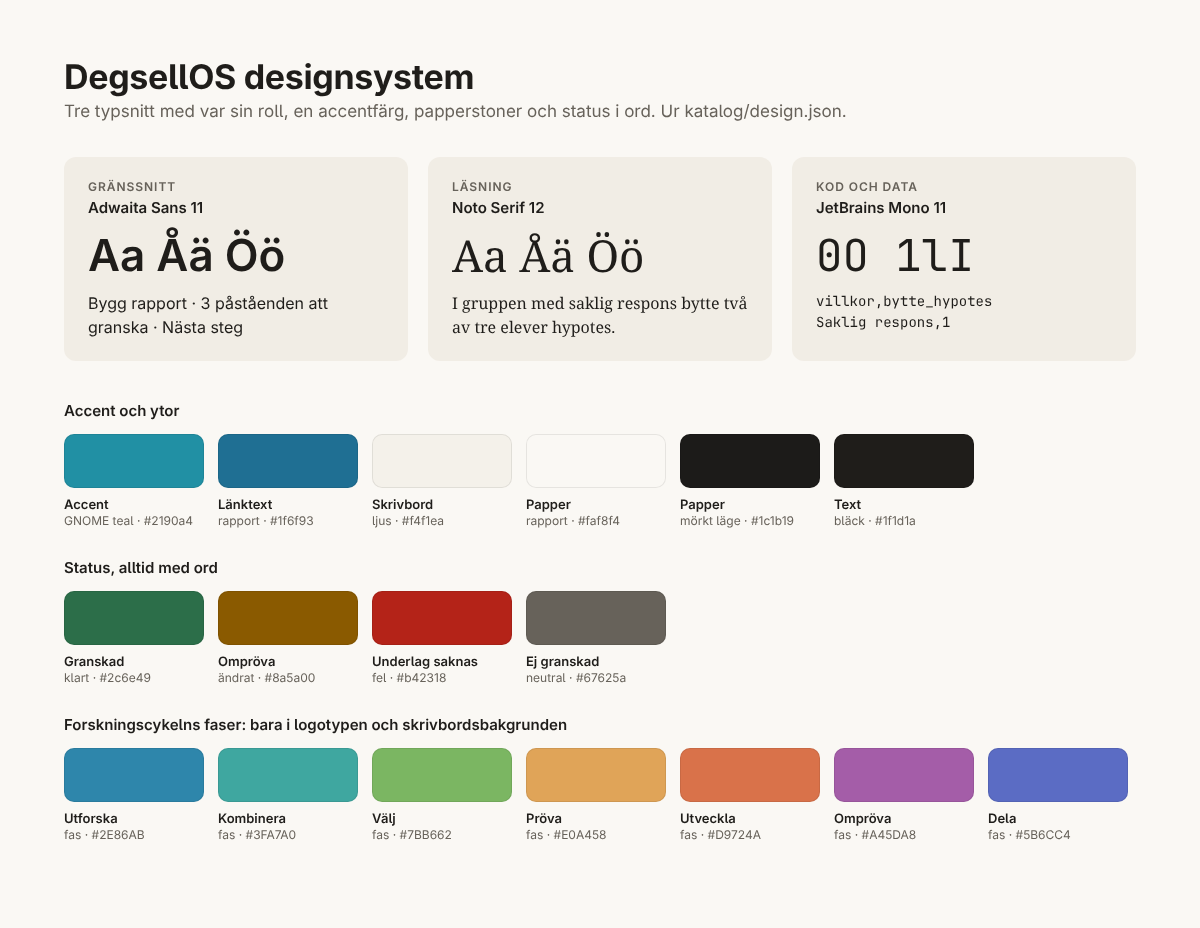
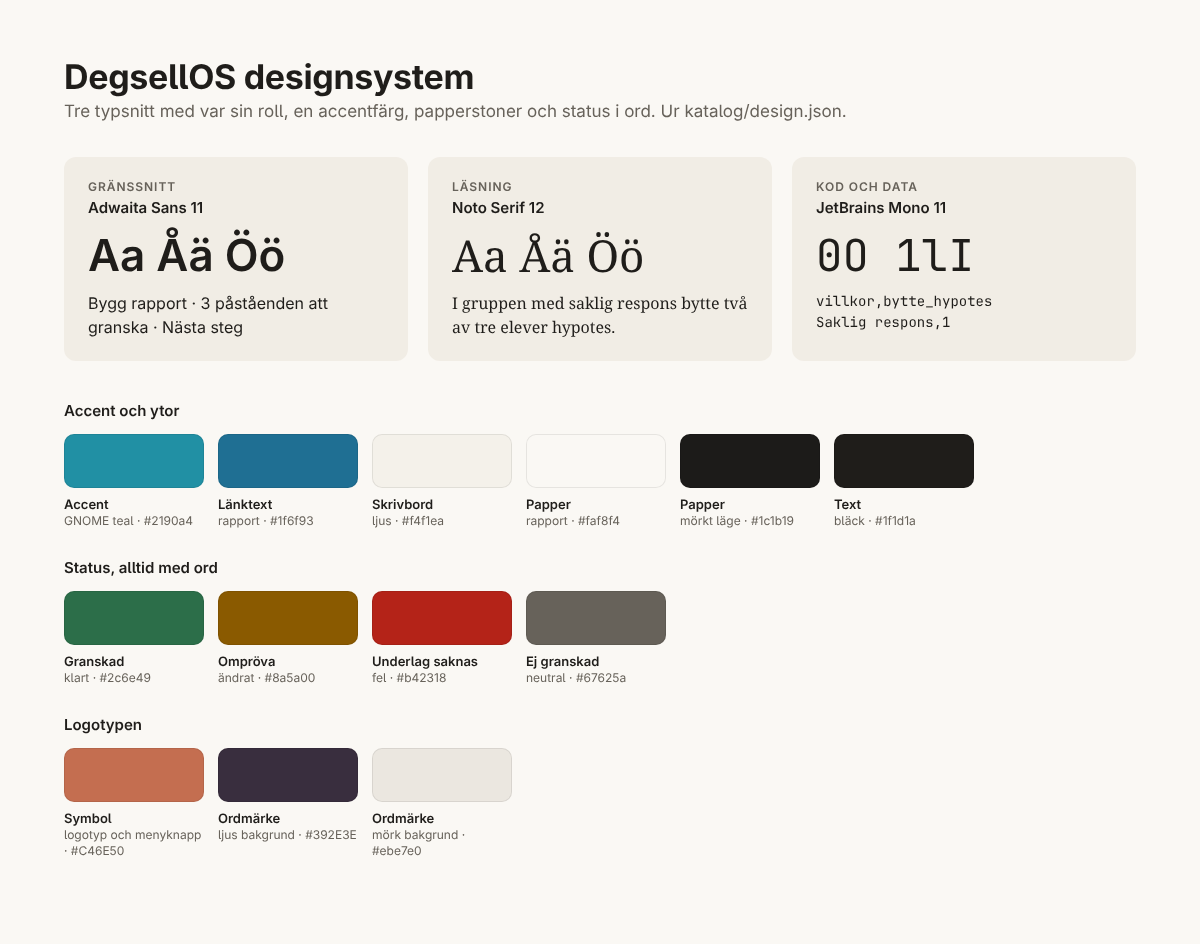
Ny logotyp: bakgrund och menyknapp
Skrivbordsbakgrunden visar logotypen i ljust och mörkt läge. Symbolen är
menyknapp uppe till vänster och programikon. Delningsbild för repot.

Claude-Session: https://claude.ai/code/session_01FQBuo2U4GP8WtcyHc8KozW

diff --git a/scripts/identitet.py b/scripts/identitet.py
@@ -5,15 +5,16 @@
   python3 scripts/identitet.py --kontroll   kontrollera att filerna är i synk
 
 Skapar:
-  - logotypen: forskningscykeln, sju bågar (en per fas) runt frågan
-  - skrivbordsbakgrunder, ljus och mörk
+  - logotypen för ljus och mörk bakgrund, ur katalog/logotyp.svg
+  - symbolen: programikon och menyknappen uppe till vänster
+  - skrivbordsbakgrunder, ljus och mörk, med logotypen
   - typsnittsinställningar (fontconfig) för gränssnitt, läsning och kod
   - GNOME-inställningar: accentfärg, typsnitt och bakgrund (dconf)
   - Obsidians utseende i forskningsmappen
   - färger och typsnitt överst i rapportens stilmall
 """
 import json
-import math
+import re
 from pathlib import Path
 import sys
 
@@ -26,52 +27,60 @@ RAPPORT = "system_files/usr/share/degsellos/projekt/mallar/gemensamt/rapport.css
 START, SLUT = "/* designvärden: början */", "/* designvärden: slut */"
 GENERERAD = "Genererad av scripts/identitet.py från katalog/design.json. Ändra inte för hand."
 
-FASER = [f["namn"] for f in DESIGN["faser"]]
-FASFÄRGER = [f["färg"] for f in DESIGN["faser"]]
-YTOR, TYP = DESIGN["ytor"], DESIGN["typsnitt"]
+YTOR, TYP, LOGO = DESIGN["ytor"], DESIGN["typsnitt"], DESIGN["logotyp"]
 # GNOME:s accentfärger (libadwaita 1.6 och senare). Bara dessa namn går att välja i Inställningar.
 GNOME_ACCENTER = {"blue", "teal", "green", "yellow", "orange", "red", "pink", "purple", "slate"}
 
-
-def arc(cx, cy, r, a0, a1):
-    p0 = (cx + r * math.cos(a0), cy + r * math.sin(a0))
-    p1 = (cx + r * math.cos(a1), cy + r * math.sin(a1))
-    large = 1 if (a1 - a0) > math.pi else 0
-    return f"M {p0[0]:.2f} {p0[1]:.2f} A {r} {r} 0 {large} 1 {p1[0]:.2f} {p1[1]:.2f}"
-
-
-def ring(cx, cy, r, width, gap_deg=7, opacity=1.0):
-    """Sju bågar, en per fas, medurs från Utforska högst upp."""
-    parts = []
-    step = 2 * math.pi / 7
-    gap = math.radians(gap_deg)
-    for i, color in enumerate(FASFÄRGER):
-        a0 = -math.pi / 2 + i * step + gap / 2
-        a1 = a0 + step - gap
-        parts.append(f'<path d="{arc(cx, cy, r, a0, a1)}" fill="none" stroke="{color}" '
-                     f'stroke-width="{width}" stroke-linecap="round" opacity="{opacity}"><title>{FASER[i]}</title></path>')
-    return "\n  ".join(parts)
+# Logotypen: symbolen och ordmärket ur katalog/logotyp.svg.
+KÄLLA = (ROOT / LOGO["källa"]).read_text(encoding="utf-8")
+SYMBOL_TRANSFORM = re.search(r'<g id="symbol"[^>]*transform="([^"]+)"', KÄLLA).group(1)
+SYMBOL = re.findall(r'<path d="([^"]+)"', KÄLLA.split('<g id="symbol"', 1)[1].split("</g>", 1)[0])
+ORDMÄRKE = re.findall(r'<path id="[^"]*" d="([^"]+)"', KÄLLA.split('<g id="wordmark"', 1)[1].split("</g>", 1)[0])
+LOGO_W, LOGO_H = 1280, 320
 
 
-def logo():
-    return f"""<svg xmlns="http://www.w3.org/2000/svg" viewBox="0 0 256 256" width="256" height="256">
+def symbol_paths():
+    return "\n    ".join(f'<path d="{d}"/>' for d in SYMBOL)
+
+
+def logo_group(mode):
+    """Hela logotypen i sina egna koordinater (1280 × 320)."""
+    words = "\n    ".join(f'<path d="{d}"/>' for d in ORDMÄRKE)
+    return (f'<g fill="{LOGO["symbol"]}" transform="{SYMBOL_TRANSFORM}">\n    {symbol_paths()}\n  </g>\n'
+            f'  <g fill="{LOGO["ordmärke"][mode]}">\n    {words}\n  </g>')
+
+
+def logo(mode):
+    return f"""<svg xmlns="http://www.w3.org/2000/svg" viewBox="0 0 {LOGO_W} {LOGO_H}" width="{LOGO_W}" height="{LOGO_H}" role="img">
   <title>DegsellOS</title>
-  {ring(128, 128, 92, 22)}
-  <circle cx="128" cy="128" r="19.8" fill="{YTOR['skrivbord']['ljus']}" stroke="{YTOR['text']['ljus']}" stroke-width="4.8"/>
+  {logo_group(mode)}
+</svg>
+"""
+
+
+def symbol():
+    """Symbolen ensam, kvadratisk: programikon och menyknappen uppe till vänster."""
+    return f"""<svg xmlns="http://www.w3.org/2000/svg" viewBox="-8 -32 496 496" width="256" height="256" role="img">
+  <title>DegsellOS</title>
+  <g fill="{LOGO["symbol"]}">
+    {symbol_paths()}
+  </g>
 </svg>
 """
 
 
 def wallpaper(mode):
-    """Lugn yta i papperston. Cykeln stor och lätt, förskjuten från mitten så att fönster och docka får plats."""
+    """Papperston med logotypen i mitten, något över mittlinjen så att dockan inte skymmer den."""
     w, h = 3840, 2160
-    cx, cy, r = w * 0.64, h * 0.56, h * 0.36
-    opacity = 0.62 if mode == "mörk" else 0.55
+    scale = 1.05
+    x = (w - LOGO_W * scale) / 2
+    y = h * 0.46 - LOGO_H * scale / 2
     return f"""<svg xmlns="http://www.w3.org/2000/svg" viewBox="0 0 {w} {h}" width="{w}" height="{h}">
   <title>DegsellOS</title>
   <rect width="{w}" height="{h}" fill="{YTOR['skrivbord'][mode]}"/>
-  {ring(cx, cy, round(r), 30, gap_deg=6, opacity=opacity)}
-  <circle cx="{cx:.0f}" cy="{cy:.0f}" r="24" fill="{YTOR['text'][mode]}" opacity="0.6"/>
+  <g transform="translate({x:.1f} {y:.1f}) scale({scale})">
+  {logo_group(mode)}
+  </g>
 </svg>
 """
 
@@ -112,6 +121,11 @@ picture-uri='file://{INSTALLERAD}/degsellos-bakgrund-ljus.svg'
 picture-uri-dark='file://{INSTALLERAD}/degsellos-bakgrund-mork.svg'
 picture-options='zoom'
 primary-color='{YTOR['skrivbord']['ljus']}'
+
+[org/gnome/shell/extensions/Logo-menu]
+use-custom-icon=true
+custom-icon-path='{INSTALLERAD}/degsellos-symbol.svg'
+symbolic-icon=false
 
 [org/gnome/desktop/screensaver]
 picture-uri='file://{INSTALLERAD}/degsellos-bakgrund-mork.svg'
@@ -173,7 +187,9 @@ def with_report_tokens(css):
 
 def outputs():
     files = {
-        f"{IDENTITET}/degsellos-logotyp.svg": logo(),
+        f"{IDENTITET}/degsellos-logotyp.svg": logo("ljus"),
+        f"{IDENTITET}/degsellos-logotyp-mork.svg": logo("mörk"),
+        f"{IDENTITET}/degsellos-symbol.svg": symbol(),
         f"{IDENTITET}/degsellos-bakgrund-ljus.svg": wallpaper("ljus"),
         f"{IDENTITET}/degsellos-bakgrund-mork.svg": wallpaper("mörk"),
         f"{IDENTITET}/{TYPSNITTSFIL}": fontconfig(),

diff --git a/docs/DESIGN.md b/docs/DESIGN.md
@@ -2,7 +2,7 @@
 
 Skrivbordsappen använder GTK 4 och libadwaita och följer GNOME:s inställningar för textstorlek, accentfärg och mörkt läge. DegsellOS färger och typsnitt definieras i [design.json](../katalog/design.json).
 
-![Typsnitt, färger för granskningsstatus och forskningscykelns sju fasfärger.](bilder/designsystem.png)
+![Typsnitt, färger för granskningsstatus och logotypens färger.](bilder/designsystem.png)
 
 ## Projektvyn
 
@@ -18,12 +18,14 @@ Använd verb på knappar, som **Bygg rapport** och **Upprepa**. När ett underla
 | Dokument och rapporttext | Noto Serif |
 | Terminal, analyskod och data | JetBrains Mono |
 
-Appen använder Adwaitas textstilar och GNOME:s symboliska ikoner. HTML-rapportens brödtext har en maximal radlängd på 68 tecken och radavståndet 1,55. Rapportens stilmall stöder ljust och mörkt läge. Forskningscykelns sju färger används i logotypen och skrivbordsbakgrunden.
+Appen använder Adwaitas textstilar och GNOME:s symboliska ikoner. HTML-rapportens brödtext har en maximal radlängd på 68 tecken och radavståndet 1,55. Rapportens stilmall stöder ljust och mörkt läge. Logotypen, en terrakottafärgad symbol och ett mörkt plommonfärgat ordmärke i Open Sans ExtraBold, står på skrivbordsbakgrunden. Symbolen ensam är programikon och menyknapp uppe till vänster. På mörk bakgrund är ordmärket ljust.
 
 ## Ändra utseendet
 
 1. Ändra typsnitt eller färger i `katalog/design.json`.
-2. Kör `python3 scripts/identitet.py` för att uppdatera logotyp, bakgrunder, GNOME-inställningar, Obsidian och rapportens stilmall.
+2. Kör `python3 scripts/identitet.py` för att uppdatera logotypens varianter, symbolen, bakgrunder, GNOME-inställningar, Obsidian och rapportens stilmall.
 3. Kör `bash tests/identitet.test.sh` för att kontrollera de genererade filerna och rapporttextens kontrast. Lägg till nya typsnittspaket i `build_files/build.sh`.
 
 GNOME-inställningarna är standardvärden som användaren kan ändra. Obsidian får sina utseendeinställningar när en forskningsmapp skapas.
+
+Bilden `docs/bilder/delningsbild.png` (1280 × 640) visas när en länk till repot delas.

diff --git a/CHANGELOG.md b/CHANGELOG.md
@@ -4,6 +4,7 @@
 
 ## Under utveckling
 
+- Ny logotyp. Skrivbordsbakgrunden visar logotypen på papperston, i ljust och mörkt läge. Symbolen är menyknapp uppe till vänster och programikon.
 - **Nytt namn: DegsellOS.** Systemet, appen, kommandona (`degsellos`, `degsellos-projekt`, `degsellos-setup` …), forskningsmappen (`~/DegsellOS`), Core-tillägget och avbildningen (`ghcr.io/jtensetti/degsellos`) heter nu DegsellOS. Datorer som installerades som ForskarOS fortsätter få uppdateringar under det gamla avbildningsnamnet. Vid första inloggningen flyttas forskningsmappen, appens inställningar och tillägget till de nya namnen, och äldre `forskaros://`-länkar öppnar fortfarande appen.
 - AI-stödet är frivilligt och avstängt från början. Välj nivå i inställningarna för Core: av, handledning (bara frågor och felsökning i det du själv skrivit) eller fullt. När det är av nämns AI inte i panelen, granskningen eller måtten. Det rekommenderade urvalet av program innehåller inte längre någon AI.
 - Skrivs hypotesen om efter att resultat finns föreslår appen en ny körning, och rapporten säger öppet att hypotesen ändrats och var den ursprungliga formuleringen finns.
